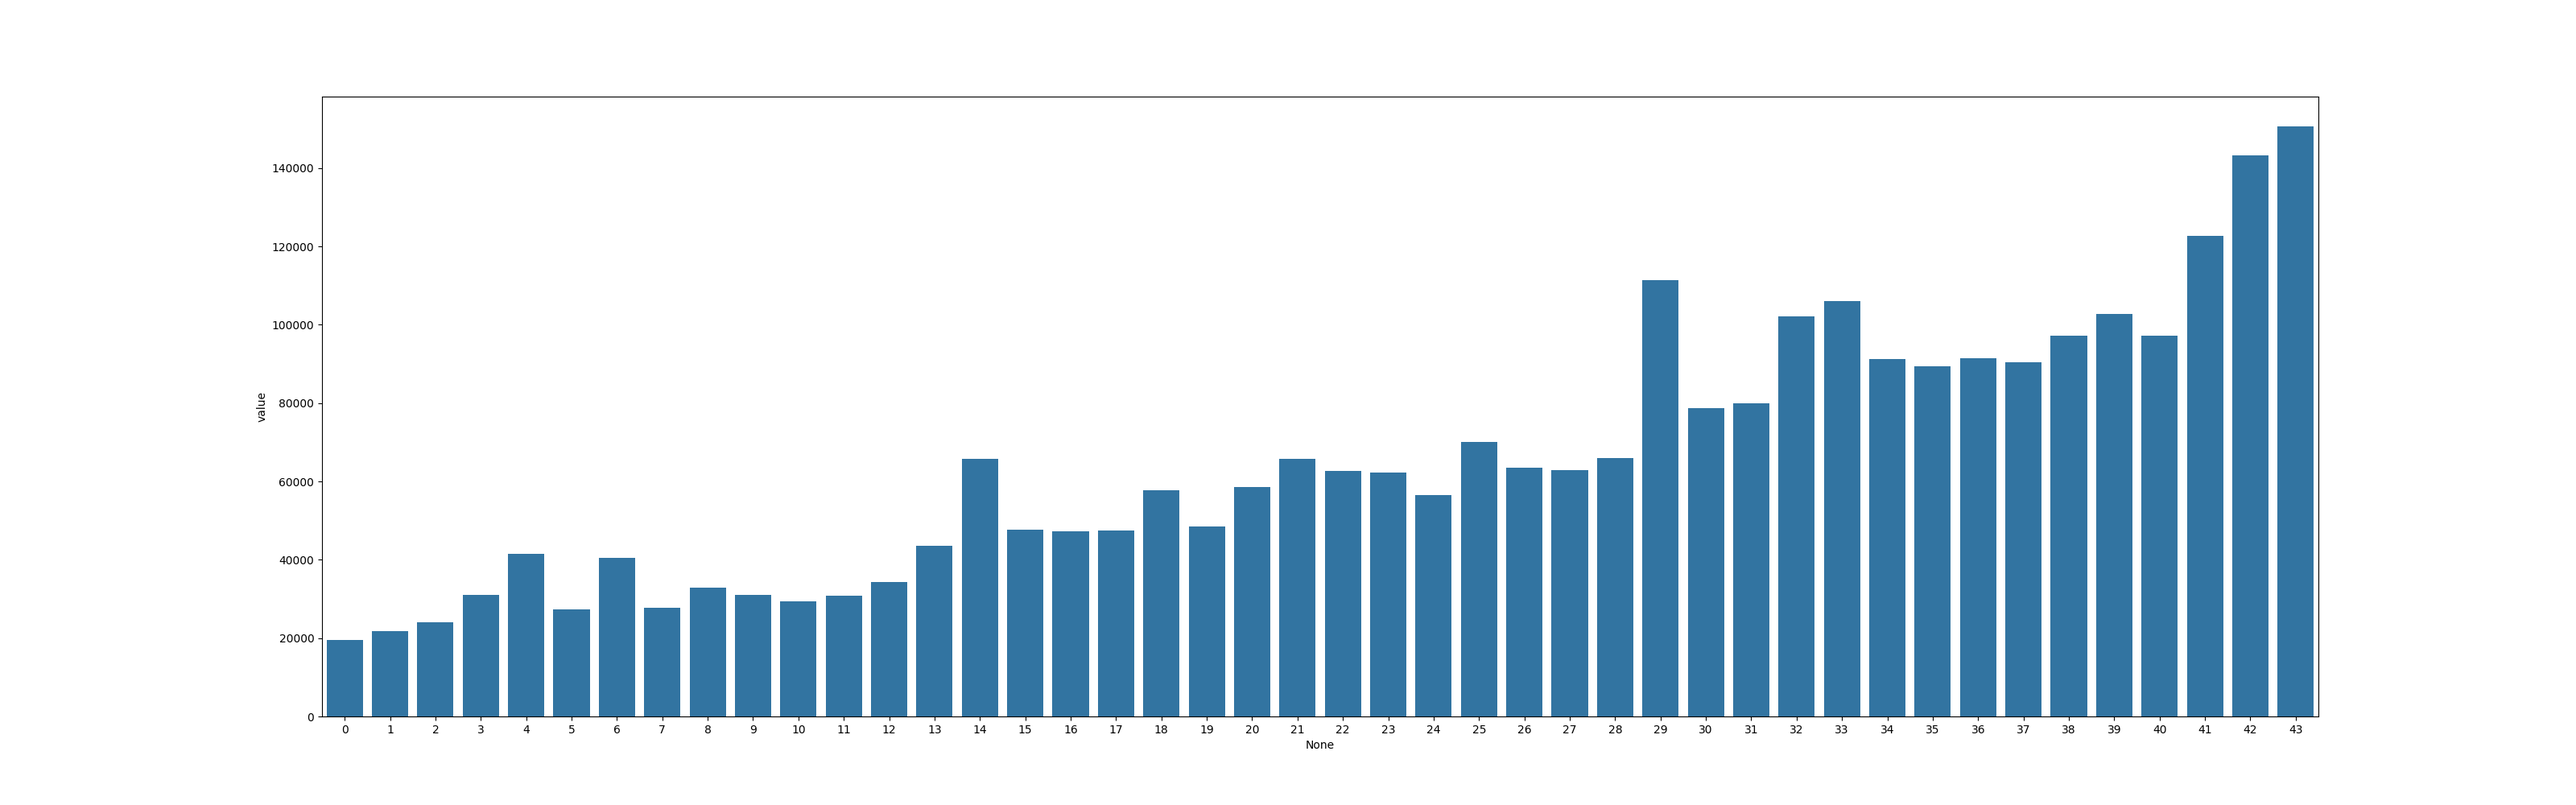
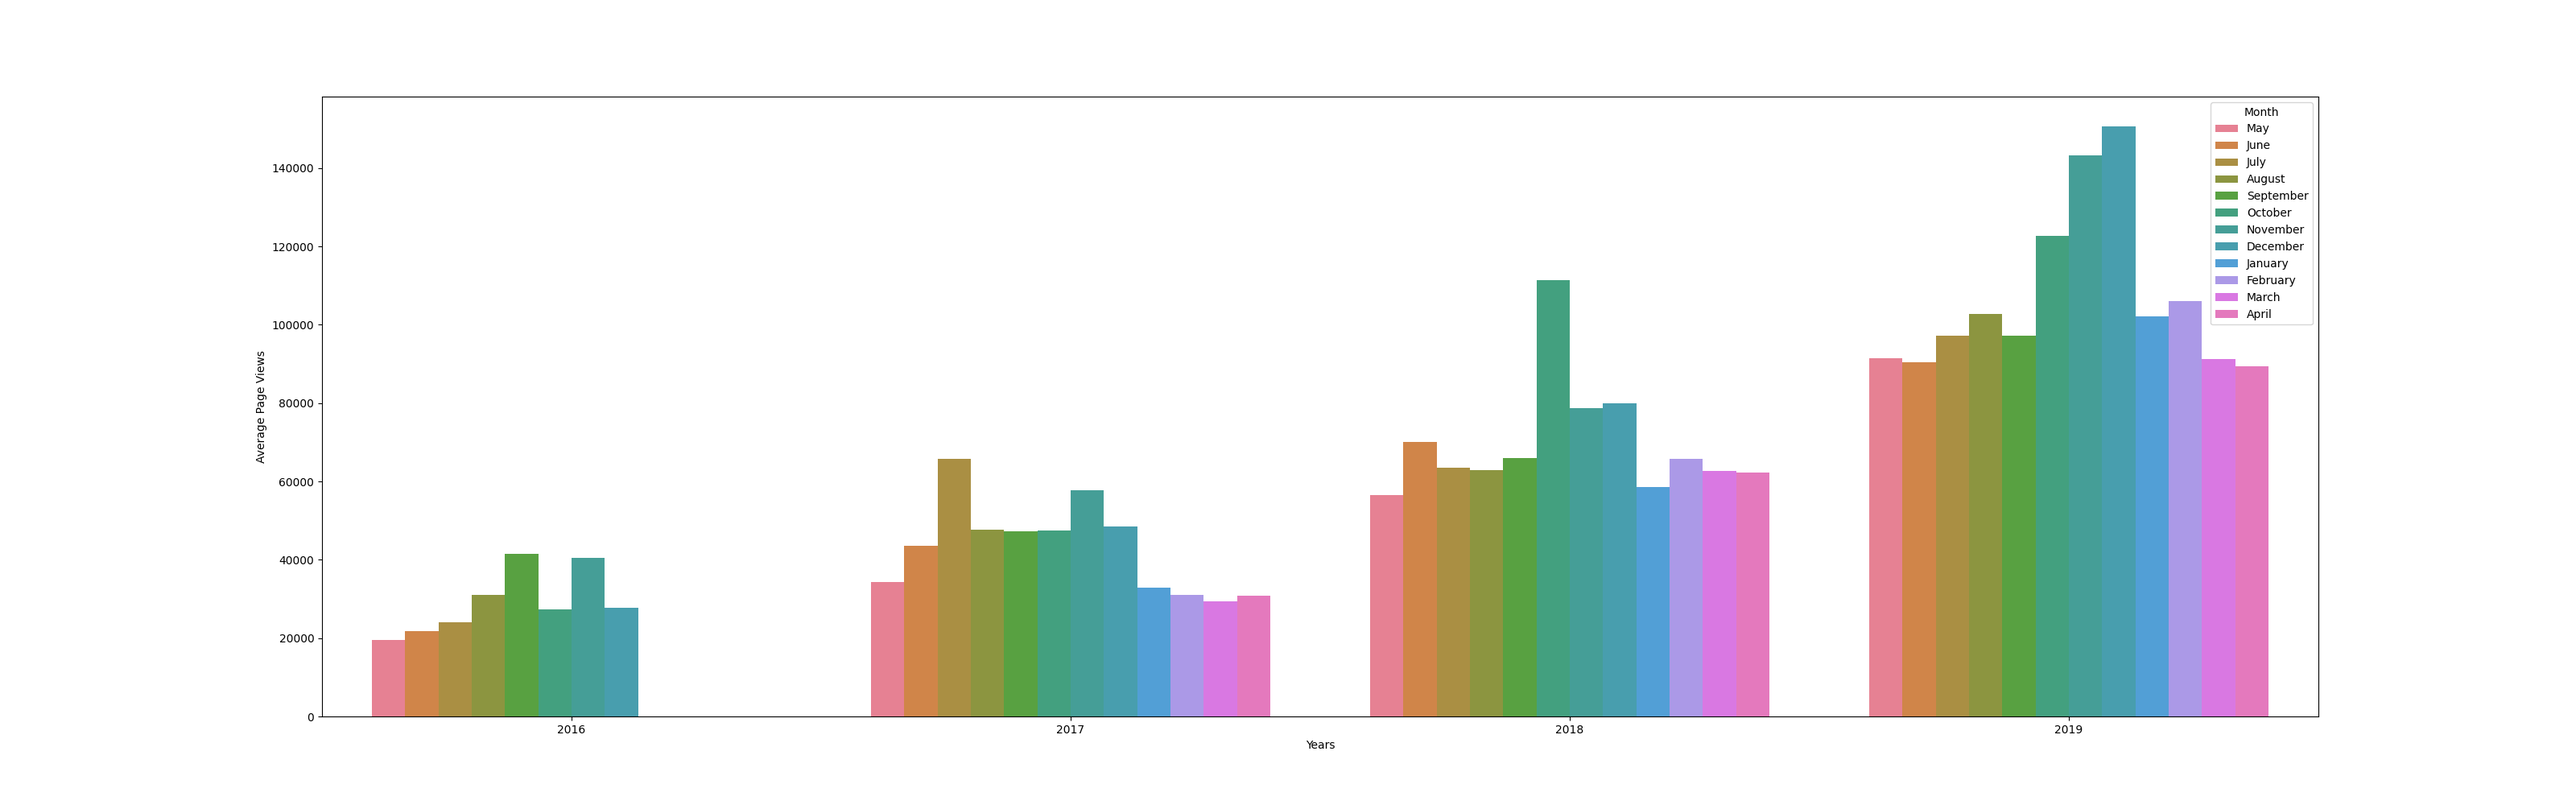
bar_plot_finish

Changed region(s): [[0.125, 0.155, 0.9062, 0.93]]

diff --git a/time_series_visualizer.py b/time_series_visualizer.py
@@ -39,17 +39,21 @@ def draw_bar_plot():
     # Copy and modify data for monthly bar plot
     df_bar = df.groupby(pd.Grouper(freq="M")).mean().reset_index()
     df_bar['year'] = df_bar['date'].dt.year
-    df_bar['month'] = df_bar['date'].dt.month
+    df_bar['month_number'] = df_bar['date'].dt.month
+    df_bar['month_name'] = pd.to_datetime(df_bar['month_number'], format='%m').dt.strftime('%B')
+    df_bar = df_bar.drop(columns=['date', 'month_number'])
+    df_bar = df_bar.rename(columns={'month_name': 'month'})
     print(df_bar)
-    Months = ["January", "February", "March", "April", "June", "July", "August", "September", "October", "November", "December"]
-
+    
     # Draw bar plot
     fig, axes = plt.subplots(figsize=(32, 10))
-    sns.barplot(data=df_bar, x=df_bar.index, y=df_bar['value'], ax=axes)
-
-
-
-
+    sns.barplot(data=df_bar, x=df_bar['year'], y=df_bar['value'], hue=df_bar['month'], ax=axes)
+    # Labeling the x-axis
+    axes.set_xlabel('Years')
+    # Labeling the y-axis
+    axes.set_ylabel('Average Page Views')  
+    # Customizing the Legend title
+    axes.legend(title='Months')
 
     # Save image and return fig (don't change this part)
     fig.savefig('bar_plot.png')
